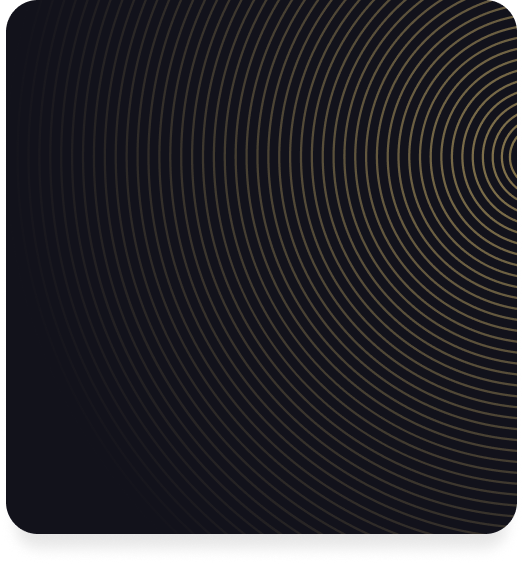
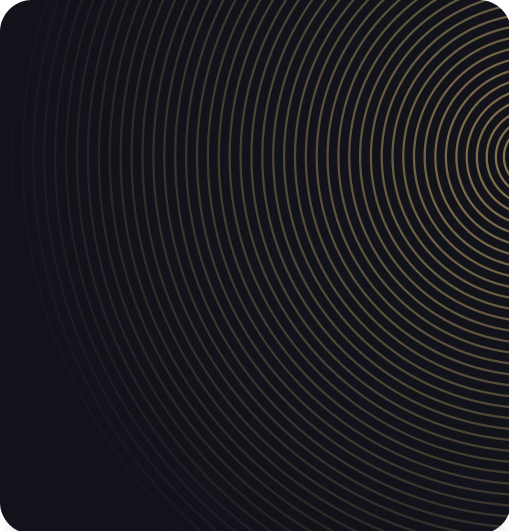
refactor: update layout and styling for BentoGrid components

Changed region(s): [[0.0, 0.0, 1.0, 1.0]]

diff --git a/app/components/Bento/BentoGrid.tsx b/app/components/Bento/BentoGrid.tsx
@@ -4,7 +4,7 @@ import React from "react";
 import Image from "next/image";
 
 const DVOXCard = () => (
-  <div className="w-full lg:w-[511px] h-[500px] sm:h-[534px]">
+  <div className="w-full lg:flex-[0_0_40%] h-[500px] sm:h-[534px]">
     <div className="relative rounded-3xl overflow-hidden h-full w-full">
       <div className="absolute inset-0 bg-[#12121B]">
         <Image
@@ -46,7 +46,7 @@ const DVOXCard = () => (
 );
 
 const ODNCard = () => (
-  <div className="w-full lg:w-[761px] h-[560px] sm:h-[534px]">
+  <div className="w-full lg:flex-[0_0_60%] h-[560px] sm:h-[534px]">
     <div className="relative h-full w-full rounded-3xl overflow-hidden">
       <Image
         src="/images/bento/bento-2-bg.png"
@@ -65,7 +65,7 @@ const ODNCard = () => (
         priority
       />
 
-      <div className="lg:hidden relative z-10 h-full flex flex-col justify-between p-6">
+      <div className="sm:hidden relative z-10 h-full flex flex-col justify-between p-6 overflow-y-hidden">
         <div className="text-white mt-4">
           <h3 className="text-[28px] font-bold mb-2 leading-[40px]">ODN On-Chain Vaults</h3>
           <p className="text-[16px] text-white leading-[24px] font-medium">
@@ -76,19 +76,19 @@ const ODNCard = () => (
           </p>
         </div>
         
-        <div className="flex justify-center items-end pb-4 relative">
+        <div className="flex justify-center items-end relative -bottom-40">
           <Image
             src="/images/bento/bento-2-mobile.png"
             alt="ODN Mobile App"
             width={1000}
             height={1000}
             priority
-            className="h-[280px] w-auto object-contain hover:scale-105 transition-all duration-300 absolute"
+            className="h-[420px] sm:h-[280px] w-auto object-contain hover:scale-105 transition-all duration-300 absolute"
           />
         </div>
       </div>
 
-      <div className="hidden lg:block relative h-full">
+      <div className="hidden sm:block relative h-full">
         <div className="absolute top-1/2 -translate-y-[35%] left-10">
           <Image
             src="/images/bento/bento-2-mobile.png"
@@ -143,20 +143,20 @@ const OROXAppCard = () => (
           </p>
         </div>
 
-        <div className="flex justify-center items-end pb-4 relative">
+        <div className="block lg:hidden flex justify-center items-end pb-4 relative -mb-40">
           <Image
             src="/images/bento/bento-3-mobile.png"
             alt="OROX App Mobile"
             width={1000}
             height={1000}
             priority
-            className="h-[280px] bottom-0 w-auto object-contain hover:scale-105 transition-all duration-300 z-10"
+            className="h-[420px] bottom-0 w-auto object-contain hover:scale-105 transition-all duration-300 z-10"
           />
         </div>
       </div>
 
       <div className="hidden lg:block h-full">
-        <div className="absolute right-20 -bottom-20 z-10">
+        <div className="absolute right-20 -bottom-[100px] z-10">
           <Image
             src="/images/bento/bento-3-mobile.png"
             alt="OROX App Mobile"
@@ -184,7 +184,7 @@ const OROXAppCard = () => (
 );
 
 const OpusMomentusCard = () => (
-  <div className="w-full lg:w-[760px] h-[500px] sm:h-[488px]">
+  <div className="w-full lg:flex-[0_0_60%] h-[500px] sm:h-[488px]">
     <div className="relative rounded-3xl overflow-hidden h-full w-full bg-[#0A0A0F] ">
       <div className="absolute top-0 left-0 right-0 h-52 lg:h-72 rounded-tl-3xl rounded-tr-3xl overflow-hidden">
         <video
@@ -216,7 +216,7 @@ const OpusMomentusCard = () => (
 );
 
 const AlphaFundCard = () => (
-  <div className="w-full lg:w-[511px] h-[450px] sm:h-[488px]">
+  <div className="w-full lg:flex-[0_0_40%] h-[450px] sm:h-[488px]">
     <div className="relative rounded-3xl overflow-hidden h-full w-full">
       <div className="absolute inset-0">
         <Image
@@ -269,7 +269,7 @@ export const BentoGrid = () => {
         </div>
 
         <div className="hidden lg:flex lg:flex-col lg:items-center lg:gap-2">
-          <div className="flex justify-start items-center gap-2">
+          <div className="w-full flex justify-start items-center gap-2">
             <DVOXCard />
             <ODNCard />
           </div>
@@ -278,7 +278,7 @@ export const BentoGrid = () => {
             <OROXAppCard />
           </div>
 
-          <div className="flex justify-start items-center gap-2">
+          <div className="w-full flex justify-start items-center gap-2">
             <OpusMomentusCard />
             <AlphaFundCard />
           </div>